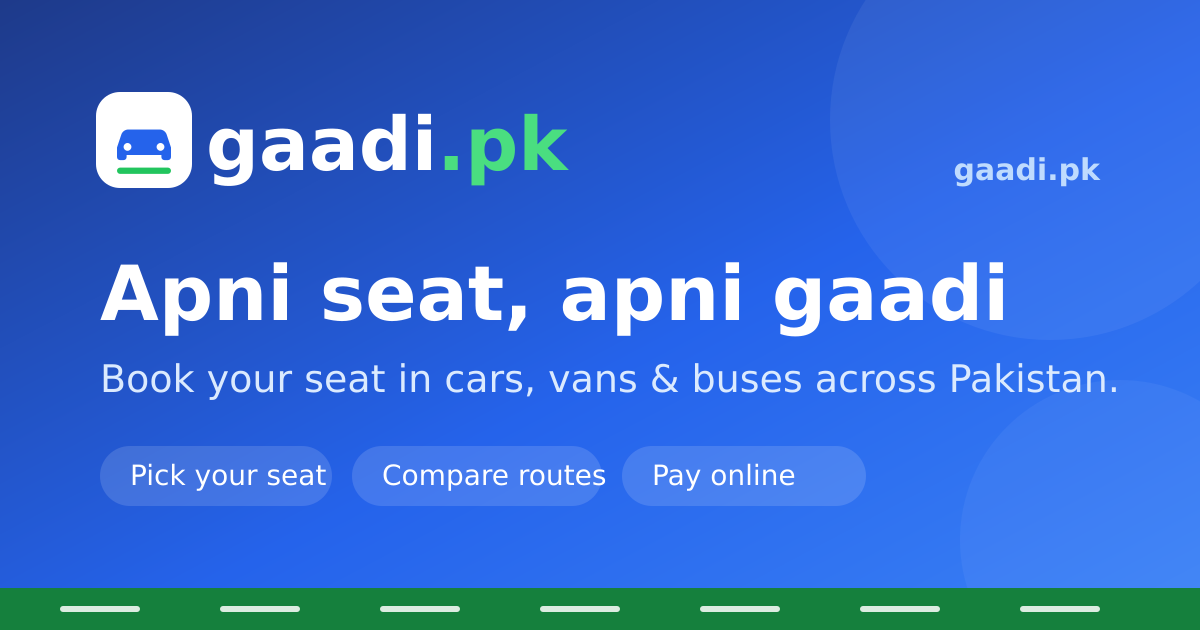
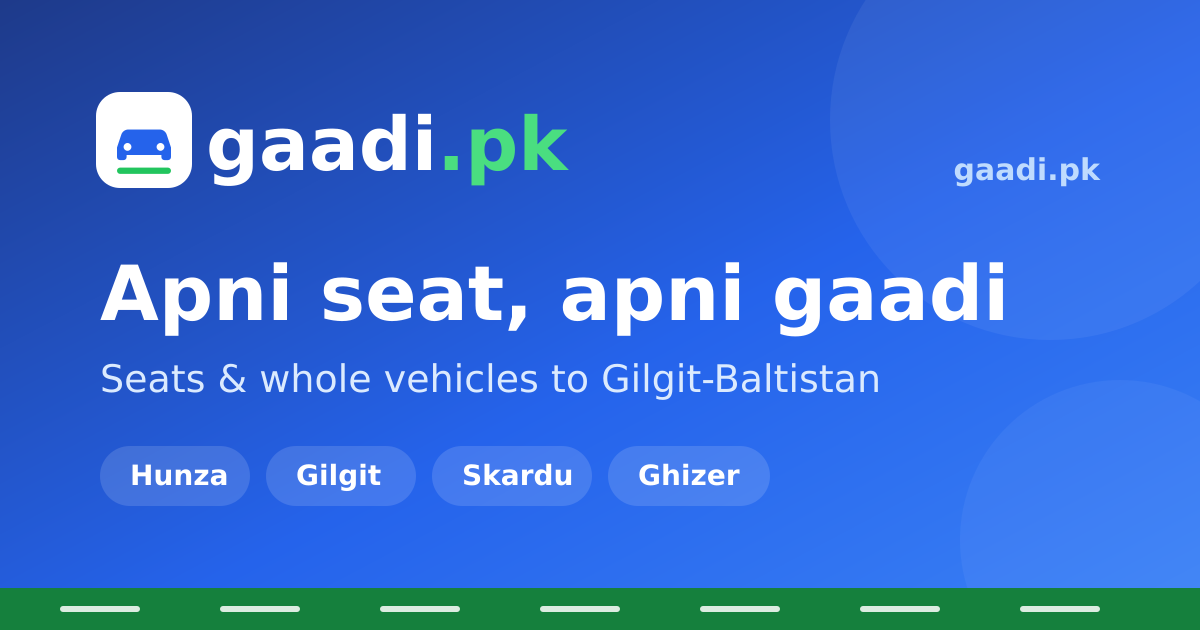
Refocus copy on Gilgit-Baltistan travel
The platform's purpose is booking seats and whole vehicles to Gilgit-Baltistan
(Hunza, Gilgit, Skardu, Ghizer) from across GB and from Islamabad, Rawalpindi
and Lahore. Updated all user-facing and SEO copy accordingly:

- index.html title/description/OG/Twitter/keywords + Organization JSON-LD
  (areaServed now Gilgit-Baltistan + Pakistan)
- Seo defaults, prerender route copy, site.webmanifest
- Home hero, stats, section text and driver CTA; listings hero + SEO; signup SEO;
  footer
- OG social image: "Seats & whole vehicles to Gilgit-Baltistan" with Hunza /
  Gilgit / Skardu / Ghizer chips (regenerated PNG)
- OG renderer fallback copy; fallback city list (cities.js) now GB + key cities
- README intro and BACKEND_PROMPT overview/locations

https://claude.ai/code/session_01EaPRC8mNogV4pHpdurT7Ss

Changed region(s): [[0.0925, 0.6937, 0.74, 0.8143], [0.0925, 0.573, 0.925, 0.6333]]

diff --git a/index.html b/index.html
@@ -13,7 +13,7 @@
     <meta name="apple-mobile-web-app-title" content="gaadi.pk" />
     <meta
       name="keywords"
-      content="gaadi.pk, online vehicle booking Pakistan, book bus seat online, intercity travel Pakistan, car van bus booking, seat booking Pakistan, Lahore Islamabad Karachi travel, ride booking"
+      content="gaadi.pk, Gilgit-Baltistan travel, book seat to Hunza, Gilgit booking, Skardu transport, Ghizer travel, Islamabad to Gilgit, Rawalpindi to Skardu, Lahore to Hunza, book vehicle Gilgit Baltistan, whole vehicle booking, seat booking Pakistan"
     />
 
     <!-- Icons & PWA -->
@@ -30,7 +30,7 @@
     <meta property="og:image:type" content="image/png" />
     <meta property="og:image:width" content="1200" />
     <meta property="og:image:height" content="630" />
-    <meta property="og:image:alt" content="gaadi.pk — Apni seat, apni gaadi. Book seats across Pakistan." />
+    <meta property="og:image:alt" content="gaadi.pk — Apni seat, apni gaadi. Seats & vehicles to Gilgit-Baltistan." />
     <meta property="og:locale" content="en_PK" />
     <meta name="twitter:card" content="summary_large_image" />
     <meta name="twitter:image" content="https://gaadi.pk/og-image.png" />
@@ -39,23 +39,23 @@
     <!-- Per-route tags: defaults below are the homepage; prerender.js swaps the
          block between these markers for each static route. -->
     <!--seo:start-->
-    <title>gaadi.pk — Book Your Seat, Travel All of Pakistan</title>
+    <title>gaadi.pk — Book Seats to Hunza, Gilgit, Skardu & Ghizer</title>
     <meta
       name="description"
-      content="gaadi.pk lets you book seats in cars, SUVs, vans and buses for intercity travel across Pakistan. Compare routes, pick your exact seat and pay online. Apni seat, apni gaadi."
+      content="gaadi.pk lets you book seats and whole vehicles to Gilgit-Baltistan — Hunza, Gilgit, Skardu and Ghizer — from across GB and from Islamabad, Rawalpindi and Lahore. Pick your seat and pay online. Apni seat, apni gaadi."
     />
     <meta name="robots" content="index, follow" />
     <link rel="canonical" href="https://gaadi.pk/" />
-    <meta property="og:title" content="gaadi.pk — Book Your Seat, Travel All of Pakistan" />
+    <meta property="og:title" content="gaadi.pk — Book Seats to Hunza, Gilgit, Skardu & Ghizer" />
     <meta
       property="og:description"
-      content="Book seats in cars, SUVs, vans and buses for intercity travel across Pakistan. Compare routes, pick your seat and pay online. Apni seat, apni gaadi."
+      content="Book seats and whole vehicles to Gilgit-Baltistan — Hunza, Gilgit, Skardu and Ghizer — from across GB and from Islamabad, Rawalpindi and Lahore. Apni seat, apni gaadi."
     />
     <meta property="og:url" content="https://gaadi.pk/" />
-    <meta name="twitter:title" content="gaadi.pk — Book Your Seat, Travel All of Pakistan" />
+    <meta name="twitter:title" content="gaadi.pk — Book Seats to Hunza, Gilgit, Skardu & Ghizer" />
     <meta
       name="twitter:description"
-      content="Book seats in cars, SUVs, vans and buses across Pakistan. Pick your seat and pay online. Apni seat, apni gaadi."
+      content="Book seats & vehicles to Hunza, Gilgit, Skardu and Ghizer — from across GB, Islamabad, Rawalpindi and Lahore. Apni seat, apni gaadi."
     />
     <!--seo:end-->
 
@@ -72,8 +72,11 @@
             "slogan": "Apni seat, apni gaadi",
             "logo": "https://gaadi.pk/icon-512.png",
             "image": "https://gaadi.pk/og-image.png",
-            "description": "Online vehicle seat-booking platform for intercity travel across Pakistan.",
-            "areaServed": { "@type": "Country", "name": "Pakistan" }
+            "description": "Book seats and whole vehicles to Gilgit-Baltistan — Hunza, Gilgit, Skardu and Ghizer — from across GB and from Islamabad, Rawalpindi and Lahore.",
+            "areaServed": [
+              { "@type": "AdministrativeArea", "name": "Gilgit-Baltistan" },
+              { "@type": "Country", "name": "Pakistan" }
+            ]
           },
           {
             "@type": "WebSite",

diff --git a/src/pages/Home.jsx b/src/pages/Home.jsx
@@ -46,14 +46,15 @@ export default function Home() {
       <section className="hero">
         <div className="container hero-inner">
           <div className="hero-copy">
-            <span className="hero-eyebrow">Apni seat, apni gaadi — your seat, your ride</span>
+            <span className="hero-eyebrow">Gilgit-Baltistan &amp; beyond — apni seat, apni gaadi</span>
             <h1>
-              Book your seat.<br />
-              <span className="accent">Travel all of Pakistan.</span>
+              Book your seat to<br />
+              <span className="accent">Hunza, Gilgit &amp; Skardu.</span>
             </h1>
             <p>
-              Find cars, SUVs, vans and buses heading your way — from Karachi to the north.
-              Compare routes, pick your seat, and pay online in a few taps.
+              Reserve seats or a whole vehicle to Gilgit-Baltistan — Hunza, Gilgit, Skardu and
+              Ghizer — from across GB and from Islamabad, Rawalpindi and Lahore. Pick your seat
+              and pay online.
             </p>
             <div className="hero-actions">
               <Link to="/vehicles" className="btn btn-primary btn-lg">
@@ -69,11 +70,11 @@ export default function Home() {
           <div className="hero-stats">
             <div className="stat">
               <strong>20+</strong>
-              <span>Cities connected</span>
+              <span>Routes across GB</span>
             </div>
             <div className="stat">
               <strong>500+</strong>
-              <span>Trips weekly</span>
+              <span>Seats booked weekly</span>
             </div>
             <div className="stat">
               <strong>4.8★</strong>
@@ -92,7 +93,7 @@ export default function Home() {
         <div className="container">
           <div className="section-head">
             <h2>Choose your ride</h2>
-            <p>From quick city hops to long coach journeys, there's a vehicle for every trip.</p>
+            <p>From shared cars to full coaches for the long haul up to the mountains of GB.</p>
           </div>
           <div className="type-grid">
             {VEHICLE_TYPES.map((t) => {
@@ -136,7 +137,7 @@ export default function Home() {
               <div className="step-icon"><FaRoute /></div>
               <span className="step-num">2</span>
               <h3>Find your route</h3>
-              <p>Search by departure and destination city, then compare vehicles, times and prices.</p>
+              <p>Search GB routes — Hunza, Gilgit, Skardu, Ghizer — then compare vehicles, times and prices.</p>
             </div>
             <div className="step">
               <div className="step-icon"><FaChair /></div>
@@ -210,8 +211,8 @@ export default function Home() {
         <section className="cta-band">
           <div className="container cta-inner">
             <div>
-              <h2>Own a vehicle? Start earning on your route.</h2>
-              <p>List your car, van or bus, set your price, and accept online bookings today.</p>
+              <h2>Drive the GB routes? Start earning today.</h2>
+              <p>List your car, van or bus on routes to Hunza, Gilgit, Skardu and Ghizer, set your price, and accept online bookings.</p>
             </div>
             <Link to={isAuthenticated ? '/driver/post' : '/signup'} className="btn btn-light btn-lg">
               Post Your Vehicle

diff --git a/prerender.js b/prerender.js
@@ -10,25 +10,25 @@ import path from 'node:path'
 import { fileURLToPath } from 'node:url'
 
 const SITE_URL = 'https://gaadi.pk'
-const DEFAULT_TITLE = 'gaadi.pk — Book Your Seat, Travel All of Pakistan'
+const DEFAULT_TITLE = 'gaadi.pk — Book Seats to Hunza, Gilgit, Skardu & Ghizer'
 const DEFAULT_DESC =
-  'gaadi.pk lets you book seats in cars, SUVs, vans and buses for intercity travel across Pakistan. Compare routes, pick your exact seat and pay online. Apni seat, apni gaadi.'
+  'gaadi.pk lets you book seats and whole vehicles to Gilgit-Baltistan — Hunza, Gilgit, Skardu and Ghizer — from across GB and from Islamabad, Rawalpindi and Lahore. Pick your seat and pay online. Apni seat, apni gaadi.'
 
 // Keep these in sync with each page's <Seo> props.
 const ROUTES = [
   { path: '/', title: null, description: DEFAULT_DESC, index: true },
   {
     path: '/vehicles',
-    title: 'Browse Vehicles & Book Seats Across Pakistan',
+    title: 'Vehicles to Gilgit-Baltistan — Hunza, Gilgit, Skardu, Ghizer',
     description:
-      'Search available cars, SUVs, vans and buses by route and date. Compare prices, pick your seat and book online across Pakistan.',
+      'Search seats and whole vehicles to Gilgit-Baltistan by route and date — Hunza, Gilgit, Skardu and Ghizer — from across GB and from Islamabad, Rawalpindi and Lahore.',
     index: true,
   },
   {
     path: '/signup',
-    title: 'Sign Up — Become a Driver or Book Seats',
+    title: 'Sign Up — Book Seats or Post Your Vehicle',
     description:
-      'Create your gaadi.pk account to book seats as a passenger or post your vehicle on intercity routes across Pakistan.',
+      'Create your gaadi.pk account to book seats to Gilgit-Baltistan, or post your vehicle on routes to Hunza, Gilgit, Skardu and Ghizer.',
     index: true,
   },
   { path: '/login', title: 'Login', description: DEFAULT_DESC, index: false },

diff --git a/src/pages/VehicleListings.jsx b/src/pages/VehicleListings.jsx
@@ -70,19 +70,19 @@ export default function VehicleListings() {
   const seoTitle =
     filters.fromCity && filters.toCity
       ? `${filters.fromCity} to ${filters.toCity} — Available Vehicles`
-      : 'Browse Vehicles & Book Seats Across Pakistan'
+      : 'Vehicles to Gilgit-Baltistan — Hunza, Gilgit, Skardu, Ghizer'
 
   return (
     <div className="listings">
       <Seo
         title={seoTitle}
-        description="Search available cars, SUVs, vans and buses by route and date. Compare prices, pick your seat and book online across Pakistan."
+        description="Search seats and whole vehicles to Gilgit-Baltistan by route and date — Hunza, Gilgit, Skardu and Ghizer — from across GB and from Islamabad, Rawalpindi and Lahore."
         path="/vehicles"
       />
       <div className="listings-hero">
         <div className="container">
-          <h1>Find your ride</h1>
-          <p>Search available vehicles and book your seat in seconds.</p>
+          <h1>Find your ride to the north</h1>
+          <p>Search seats and vehicles to Gilgit-Baltistan and from major Pakistani cities.</p>
           <SearchBar values={filters} onChange={setFilters} onSubmit={applySearch} variant="inline" />
         </div>
       </div>

diff --git a/src/components/Seo.jsx b/src/components/Seo.jsx
@@ -10,9 +10,9 @@ import { useEffect } from 'react'
 export const SITE = {
   name: 'gaadi.pk',
   url: 'https://gaadi.pk',
-  defaultTitle: 'gaadi.pk — Book Your Seat, Travel All of Pakistan',
+  defaultTitle: 'gaadi.pk — Book Seats to Hunza, Gilgit, Skardu & Ghizer',
   defaultDescription:
-    'Book seats in cars, SUVs, vans and buses for intercity travel across Pakistan. Compare routes, pick your exact seat and pay online. Apni seat, apni gaadi.',
+    'Book seats and whole vehicles to Gilgit-Baltistan — Hunza, Gilgit, Skardu and Ghizer — from across GB and from Islamabad, Rawalpindi and Lahore. Pick your seat and pay online. Apni seat, apni gaadi.',
   image: 'https://gaadi.pk/og-image.png',
 }
 

diff --git a/src/data/cities.js b/src/data/cities.js
@@ -2,24 +2,22 @@
 // (see useLocations); this static list is only used if that request fails so
 // the route dropdowns are never empty.
 export const CITIES = [
-  'Karachi',
-  'Lahore',
+  // Gilgit-Baltistan
+  'Gilgit',
+  'Hunza',
+  'Skardu',
+  'Ghizer',
+  'Nagar',
+  'Astore',
+  'Chilas',
+  'Khaplu',
+  'Gahkuch',
+  // Major cities & transit points
   'Islamabad',
   'Rawalpindi',
-  'Faisalabad',
-  'Multan',
-  'Peshawar',
-  'Quetta',
-  'Hyderabad',
-  'Sialkot',
-  'Gujranwala',
-  'Bahawalpur',
-  'Sargodha',
-  'Sukkur',
+  'Lahore',
   'Abbottabad',
-  'Murree',
-  'Swat',
-  'Gilgit',
-  'Skardu',
+  'Mansehra',
+  'Besham',
   'Naran',
 ]

diff --git a/src/pages/Signup.jsx b/src/pages/Signup.jsx
@@ -53,8 +53,8 @@ export default function Signup() {
   return (
     <div className="auth-page">
       <Seo
-        title="Sign Up — Become a Driver or Book Seats"
-        description="Create your gaadi.pk account to book seats as a passenger or post your vehicle on intercity routes across Pakistan."
+        title="Sign Up — Book Seats or Post Your Vehicle"
+        description="Create your gaadi.pk account to book seats to Gilgit-Baltistan, or post your vehicle on routes to Hunza, Gilgit, Skardu and Ghizer."
         path="/signup"
       />
       <div className="auth-card auth-card-wide">

diff --git a/src/components/Footer.jsx b/src/components/Footer.jsx
@@ -11,8 +11,8 @@ export default function Footer() {
             <Logo />
           </Link>
           <p>
-            Apni seat, apni gaadi. Book your seat in cars, vans and buses across Pakistan —
-            connecting trusted drivers with passengers nationwide.
+            Apni seat, apni gaadi. Book seats and vehicles to Gilgit-Baltistan — Hunza, Gilgit,
+            Skardu and Ghizer — from across GB and from Islamabad, Rawalpindi and Lahore.
           </p>
           <div className="footer-social">
             <a href="#" aria-label="Facebook"><FaFacebookF /></a>

diff --git a/BACKEND_PROMPT.md b/BACKEND_PROMPT.md
@@ -23,8 +23,9 @@ the frontend works without modification.
 - Provide a `package.json`, `.env.example`, and a README with run instructions
 
 ## 2. Product overview
-gaadi.pk connects **drivers** who post vehicles on intercity routes with
-**passengers** who book individual seats and pay online.
+gaadi.pk connects **drivers** who post vehicles on routes to Gilgit-Baltistan
+(Hunza, Gilgit, Skardu, Ghizer) — from across GB and from cities like Islamabad,
+Rawalpindi and Lahore — with **passengers** who book individual seats and pay online.
 
 There are two user roles:
 - **Driver** — signs up, creates a profile, posts vehicles (Car / SUV / Van / Bus)
@@ -213,9 +214,9 @@ seats from the vehicle's `bookedSeats`.
 - **Vehicle types:** `car`, `suv`, `van`, `bus`
 - **Amenities:** Air Conditioning, WiFi, Charging Port, Reclining Seats, Water
   Bottle, Music System, Luggage Space, Reading Light
-- **Cities:** Karachi, Lahore, Islamabad, Rawalpindi, Faisalabad, Multan, Peshawar,
-  Quetta, Hyderabad, Sialkot, Gujranwala, Bahawalpur, Sargodha, Sukkur, Abbottabad,
-  Murree, Swat, Gilgit, Skardu, Naran
+- **Locations** (Gilgit-Baltistan + major cities/transit): Gilgit, Hunza, Skardu,
+  Ghizer, Nagar, Astore, Chilas, Khaplu, Gahkuch, Islamabad, Rawalpindi, Lahore,
+  Abbottabad, Mansehra, Besham, Naran
 
 ## 10. Frontend integration notes
 - The frontend already has a service layer with these calls:

diff --git a/README.md b/README.md
@@ -1,9 +1,10 @@
-# 🚗 gaadi.pk — Online Vehicle Booking Platform
+# 🚗 gaadi.pk — Seat & Vehicle Booking for Gilgit-Baltistan
 
-A complete **Vite + React** frontend for a rent-a-car / seat-booking application.
-Drivers sign up, create a profile, post their vehicle (Car, SUV, Van or Bus) on a
-city-to-city route, and accept online bookings. Passengers sign up, browse listings,
-pick exact seats from a live seat map, and pay online.
+A complete **Vite + React** frontend for booking seats and whole vehicles to
+**Gilgit-Baltistan** — Hunza, Gilgit, Skardu and Ghizer — from across GB and from
+cities like **Islamabad, Rawalpindi and Lahore**. Drivers post their vehicle
+(Car, SUV, Van or Bus) on a route and accept online bookings; passengers browse
+listings, pick exact seats from a live seat map, and pay online.
 
 > The frontend is wired to a **REST API backend** through the service layer in
 > `src/services/`. Configure the API base URL with `VITE_API_URL`
